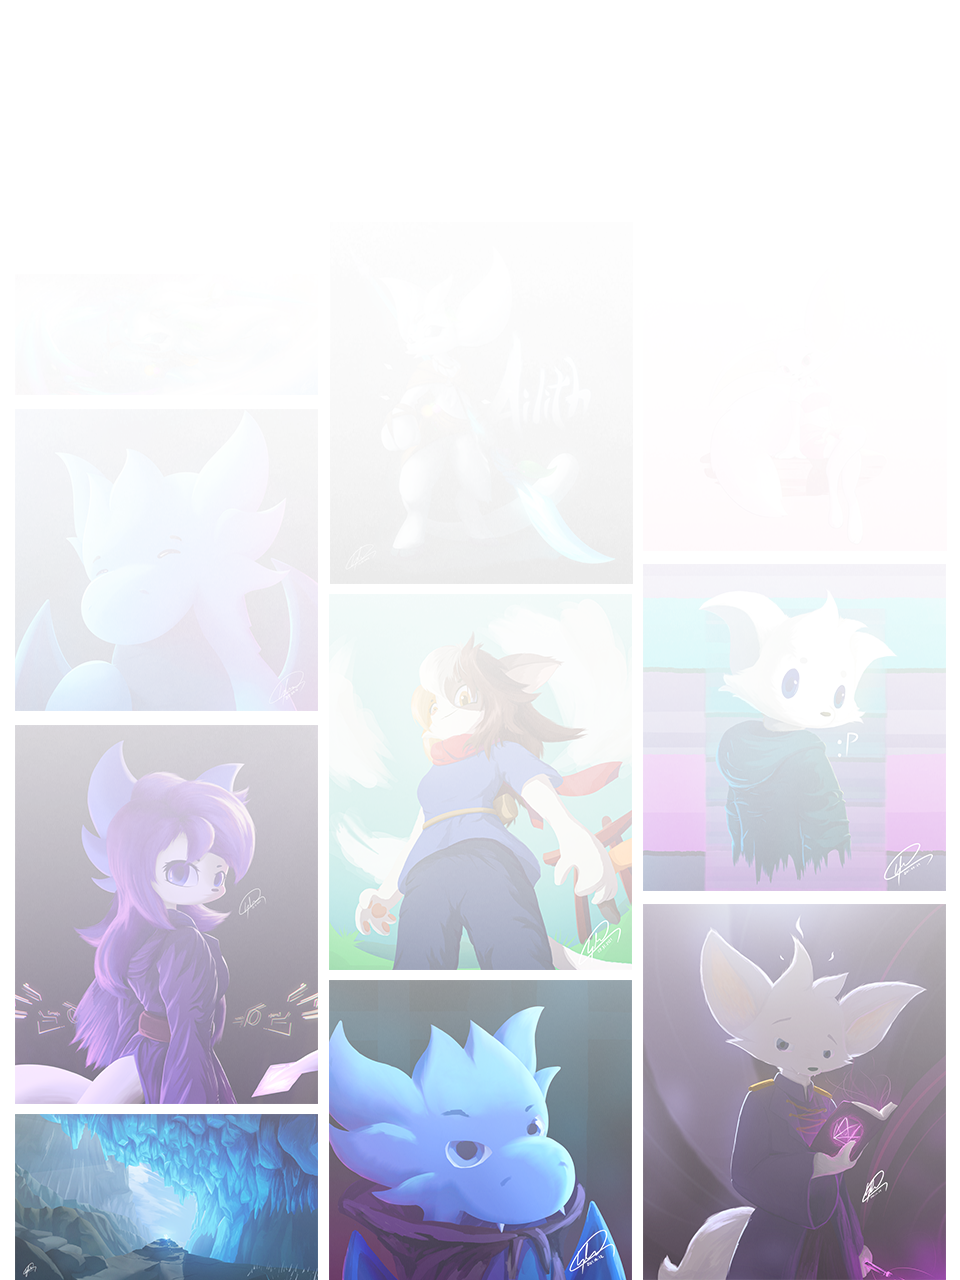
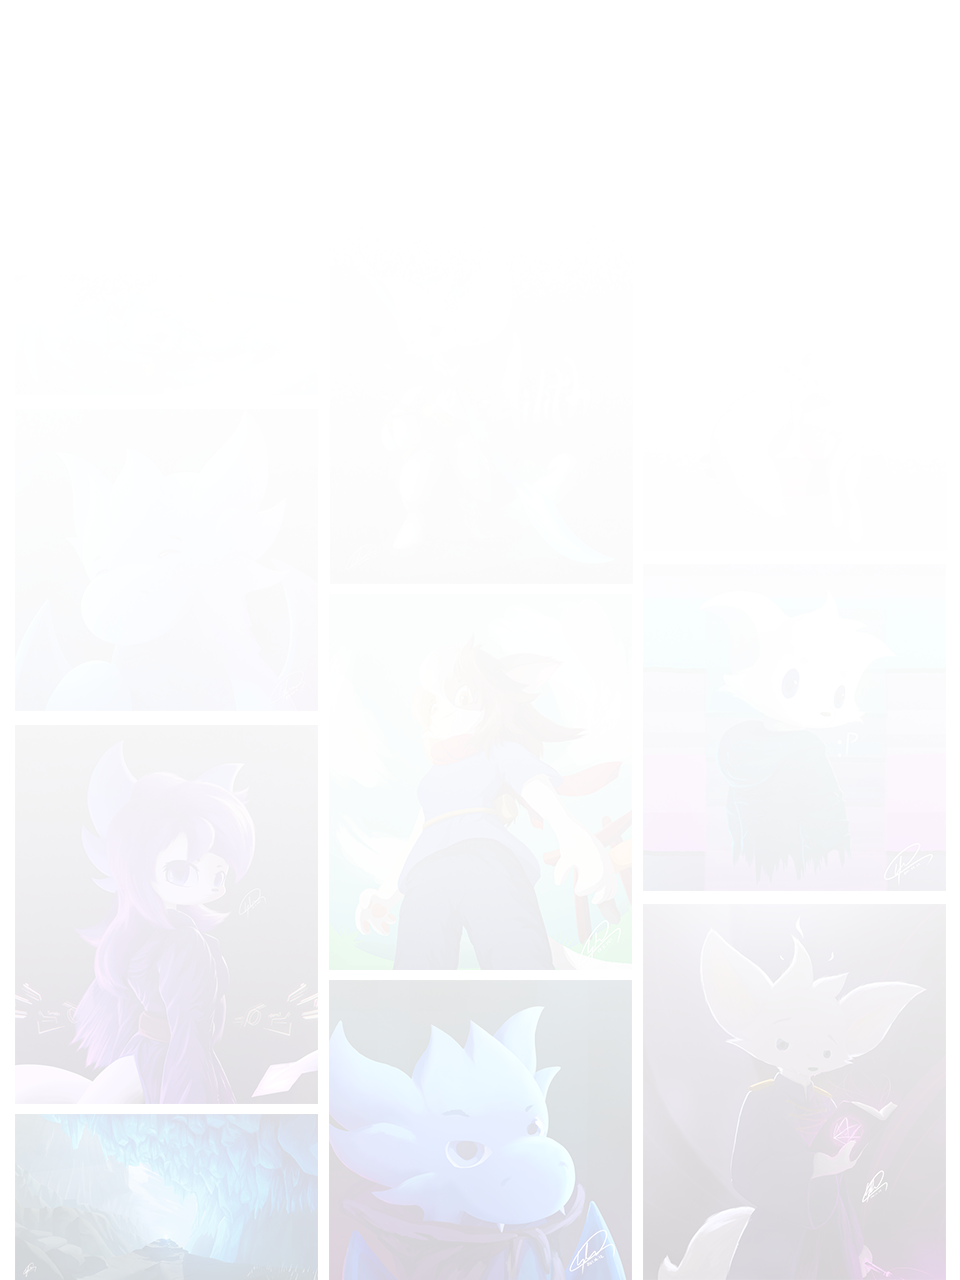
Updated Sections
Partially updated sketch image preview sections

diff --git a/commissions.html b/commissions.html
@@ -60,7 +60,7 @@ Coded with love <3
                             <img id="img" src="/assets/images//Commission Sample 1.png">
                         </div>
                         <div id="sketch1" class="sectionContent">
-                            <img id="img" src="/assets/images/Placeholder.png" style="filter: invert(); opacity: 0.3;">
+                            <img id="img" src="/assets/images/Commission Sample 2.png">
                         </div>
                         <h3>
                             $21
@@ -75,7 +75,7 @@ Coded with love <3
                             <img id="img" src="/assets/images/Commission Sample 3.png">
                         </div>
                         <div id="sketch2" class="sectionContent2">
-                            <img id="img" src="/assets/images/Placeholder.png" style="filter: invert(); opacity: 0.3;">
+                            <img id="img" src="/assets/images/Commission Sample 4.png">
                         </div>
                         <h3>
                             $26

diff --git a/assets/styles/serviceagreement.css b/assets/styles/serviceagreement.css
@@ -57,6 +57,9 @@ h3 {
     -webkit-box-shadow: 0px 7px 30px -5px rgba(0, 0, 0, 0.75);
     -moz-box-shadow: 0px 7px 30px -5px rgba(0, 0, 0, 0.75);
     justify-content: flex-start;
+    background-image: url(/assets/images/Commissions\ Background\ Temp.png);
+    background-position: bottom;
+    background-repeat: no-repeat;
 }
 
 @media only screen and (max-width: 800px) {
